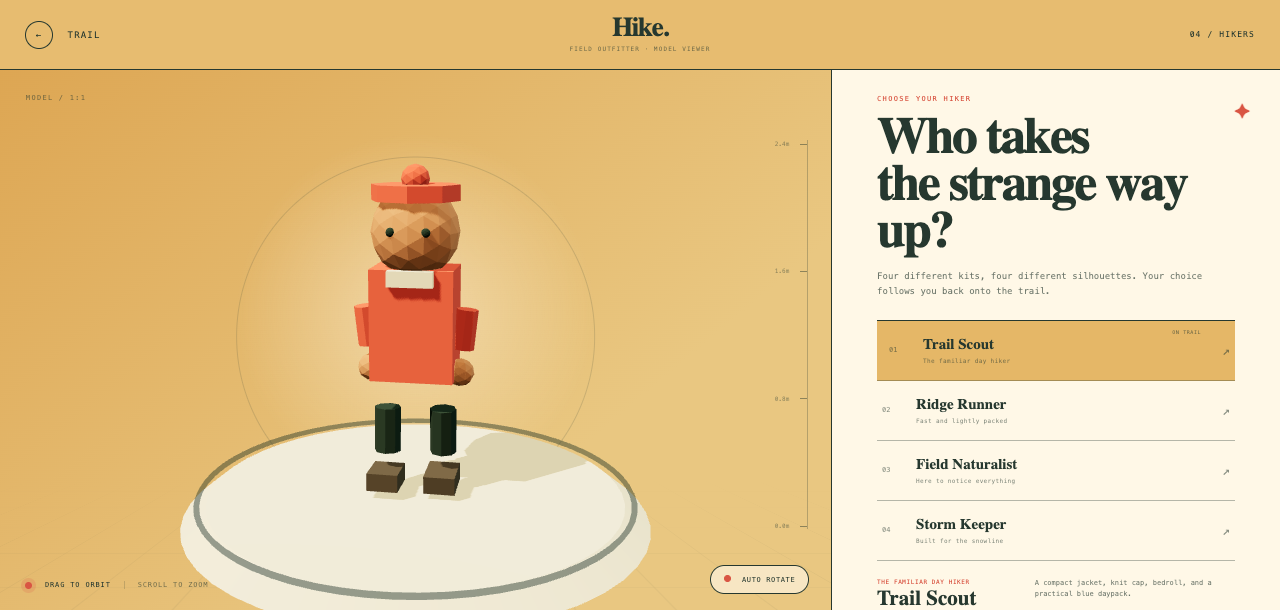
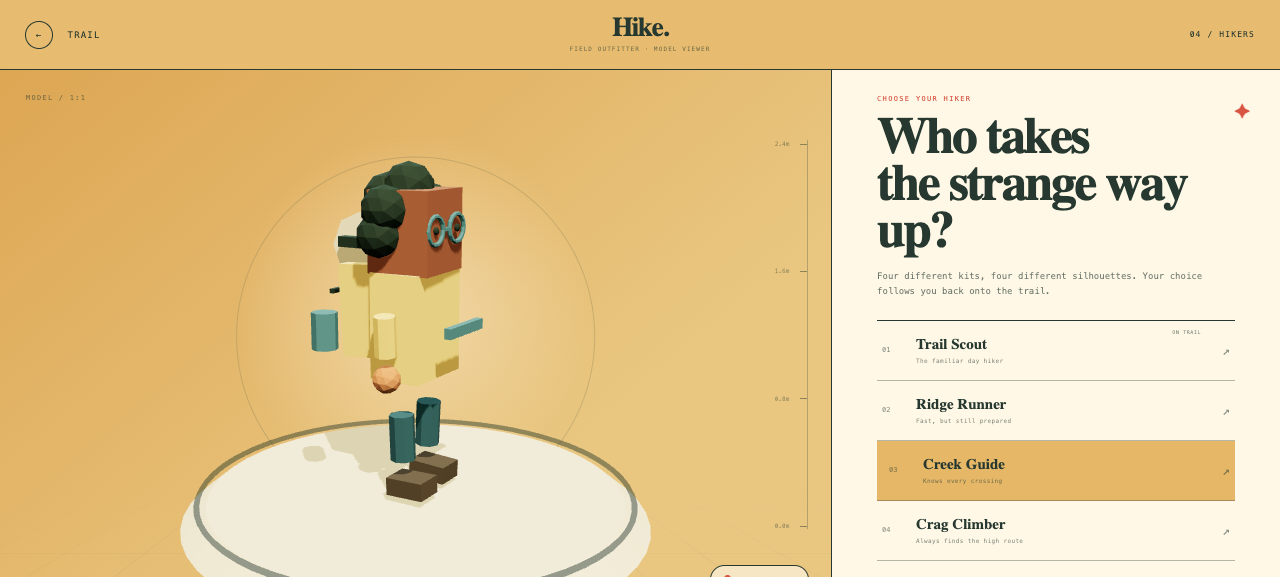
hike: redesign hikers with distinctive backpacks

diff --git a/hike/src/hikers.ts b/hike/src/hikers.ts
@@ -7,29 +7,29 @@ export const hikerAppearances = [
     id: "trail-scout",
     name: "Trail Scout",
     role: "The familiar day hiker",
-    description: "A compact jacket, knit cap, bedroll, and a practical blue daypack.",
-    features: ["Daypack", "Bedroll", "Beanie"],
+    description: "A compact jacket, knit cap, bedroll, and a square blue trail pack with its own mountain badge.",
+    features: ["Classic pack", "Bedroll", "Beanie"],
   },
   {
     id: "ridge-runner",
     name: "Ridge Runner",
-    role: "Fast and lightly packed",
-    description: "A lean trail runner with bare knees, a sun visor, hydration vest, and low shoes.",
-    features: ["Running vest", "Shorts", "Visor"],
+    role: "Fast, but still prepared",
+    description: "A lean trail runner with bare knees, a sun visor, low shoes, and a compact red classic pack.",
+    features: ["Classic pack", "Shorts", "Visor"],
   },
   {
-    id: "field-naturalist",
-    name: "Field Naturalist",
-    role: "Here to notice everything",
-    description: "A long field coat, broad hat, binoculars, and a specimen satchel change the silhouette completely.",
-    features: ["Field coat", "Binoculars", "Satchel"],
+    id: "creek-guide",
+    name: "Creek Guide",
+    role: "Knows every crossing",
+    description: "A rain-shell regular with a square face, round glasses, cloudlike curls, and a bottle-pocket roll-top pack.",
+    features: ["Roll-top pack", "Round glasses", "Rain shell"],
   },
   {
-    id: "storm-keeper",
-    name: "Storm Keeper",
-    role: "Built for the snowline",
-    description: "A broad hooded parka, goggles, snow gaiters, and an expedition pack for bad weather.",
-    features: ["Parka", "Goggles", "Expedition pack"],
+    id: "crag-climber",
+    name: "Crag Climber",
+    role: "Always finds the high route",
+    description: "An angular helmet, climbing harness, sturdy boots, and a rope-loaded summit pack built for exposed ground.",
+    features: ["Climbing pack", "Helmet", "Coiled rope"],
   },
 ] as const;
 
@@ -122,6 +122,36 @@ function pack(root: THREE.Group, y: number, material: THREE.Material, scale: [nu
   part(root, box, materials.ink, [0, y + scale[1] * 0.72, -0.42], [scale[0] * 0.84, 0.08, scale[2] * 1.04]);
 }
 
+function classicPack(root: THREE.Group, y: number, material: THREE.Material, scale = 1) {
+  const back = -0.55;
+  part(root, box, material, [0, y, -0.4], [0.5 * scale, 0.62 * scale, 0.25 * scale]);
+  part(root, box, material, [0, y + 0.2 * scale, back - 0.11 * scale], [0.43 * scale, 0.19 * scale, 0.035]);
+  part(root, box, materials.ink, [0, y - 0.02 * scale, back - 0.125 * scale], [0.4 * scale, 0.025, 0.025]);
+  const handle = new THREE.Mesh(new THREE.TorusGeometry(0.15 * scale, 0.025, 6, 12, Math.PI), materials.ink);
+  handle.position.set(0, y + 0.66 * scale, -0.43);
+  handle.rotation.z = Math.PI;
+  handle.castShadow = true;
+  root.add(handle);
+  part(root, cylinder, materials.cream, [0, y + 0.08 * scale, back - 0.165 * scale], [0.13 * scale, 0.026, 0.13 * scale], [Math.PI / 2, 0, 0]);
+  part(root, cone, materials.ink, [0, y + 0.09 * scale, back - 0.195 * scale], [0.075 * scale, 0.08 * scale, 0.022]);
+}
+
+function rollTopPack(root: THREE.Group) {
+  pack(root, 1.43, materials.gold, [0.53, 0.72, 0.28]);
+  part(root, cylinder, materials.cream, [0, 1.91, -0.41], [0.27, 0.27, 0.27], [0, 0, Math.PI / 2]);
+  part(root, cylinder, materials.blue, [-0.58, 1.33, -0.43], [0.1, 0.28, 0.1]);
+  part(root, box, materials.ink, [0, 1.54, -0.69], [0.32, 0.035, 0.035]);
+}
+
+function climbingPack(root: THREE.Group) {
+  pack(root, 1.46, materials.moss, [0.57, 0.78, 0.3]);
+  const rope = new THREE.Mesh(new THREE.TorusGeometry(0.3, 0.055, 7, 20), materials.gold);
+  rope.position.set(0, 1.4, -0.72);
+  rope.castShadow = true;
+  root.add(rope);
+  part(root, box, materials.red, [0, 1.88, -0.56], [0.32, 0.1, 0.12]);
+}
+
 function createBase() {
   const root = new THREE.Group();
   root.userData = { walkParts: [], baseScale: 1 } satisfies HikerData;
@@ -139,8 +169,8 @@ function trailScout() {
   head(root, 2.04, 0.34);
   part(root, cylinder, materials.red, [0, 2.33, 0], [0.34, 0.12, 0.34]);
   part(root, lowSphere, materials.red, [0, 2.43, 0], [0.11, 0.11, 0.11]);
-  pack(root, 1.38, materials.blue, [0.53, 0.66, 0.24]);
-  part(root, cylinder, materials.gold, [0, 1.07, -0.53], [0.34, 0.34, 0.34], [0, 0, Math.PI / 2]);
+  classicPack(root, 1.38, materials.blue, 1.04);
+  part(root, cylinder, materials.gold, [0, 1.08, -0.53], [0.16, 0.4, 0.16], [0, 0, Math.PI / 2]);
   return root;
 }
 
@@ -158,60 +188,64 @@ function ridgeRunner() {
   head(root, 2.0, 0.31);
   part(root, cylinder, materials.cream, [0, 2.25, 0], [0.33, 0.07, 0.33]);
   part(root, box, materials.cream, [0, 2.25, 0.3], [0.36, 0.04, 0.25], [-0.08, 0, 0]);
-  part(root, box, materials.red, [0, 1.5, -0.29], [0.38, 0.46, 0.12]);
+  classicPack(root, 1.43, materials.red, 0.86);
   return root;
 }
 
-function fieldNaturalist() {
+function creekGuide() {
   const root = createBase();
-  leg(root, -0.2, materials.trunk, 1, { width: 0.09, boot: materials.ink });
-  leg(root, 0.2, materials.trunk, -1, { width: 0.09, boot: materials.ink });
-  part(root, cone, materials.moss, [0, 1.34, 0], [0.68, 1.16, 0.58], [0, 0, Math.PI]);
-  part(root, box, materials.cream, [0, 1.54, 0.38], [0.11, 0.62, 0.05]);
-  part(root, box, materials.trunk, [0.35, 1.05, 0.32], [0.32, 0.35, 0.13], [0, 0, -0.08]);
-  part(root, box, materials.trunk, [0.13, 1.55, 0.25], [0.04, 0.78, 0.04], [0, 0, -0.35]);
-  arm(root, -0.48, materials.moss, -1, { length: 0.67 });
-  arm(root, 0.48, materials.moss, 1, { length: 0.67 });
-  head(root, 2.09, 0.33);
-  part(root, cylinder, materials.trunk, [0, 2.34, 0], [0.57, 0.055, 0.57]);
-  part(root, cylinder, materials.trunk, [0, 2.49, 0], [0.3, 0.17, 0.3]);
-  for (const x of [-0.13, 0.13]) {
-    part(root, cylinder, materials.darkBlue, [x, 1.82, 0.39], [0.12, 0.17, 0.12], [Math.PI / 2, 0, 0]);
+  leg(root, -0.21, materials.darkBlue, 1, { width: 0.1, boot: materials.trunk });
+  leg(root, 0.21, materials.darkBlue, -1, { width: 0.1, boot: materials.trunk });
+  part(root, box, materials.gold, [0, 1.34, 0], [0.62, 0.82, 0.42]);
+  part(root, box, materials.blue, [0, 1.34, 0.43], [0.48, 0.08, 0.055]);
+  arm(root, -0.43, materials.gold, -1, { length: 0.62 });
+  arm(root, 0.43, materials.gold, 1, { length: 0.62 });
+
+  // A broad square face and clustered curls give the guide a head unlike the round-headed hikers.
+  part(root, box, materials.skinDark, [0, 2.05, 0], [0.58, 0.62, 0.5], [0, 0.08, 0]);
+  for (const [x, y, z, size] of [
+    [-0.29, 2.22, -0.08, 0.18], [0, 2.36, -0.06, 0.2], [0.29, 2.22, -0.08, 0.18],
+    [-0.31, 2.03, -0.12, 0.17], [0.31, 2.03, -0.12, 0.17], [0, 2.28, -0.24, 0.2],
+  ] as const) part(root, lowSphere, materials.ink, [x, y, z], [size, size, size]);
+  for (const x of [-0.15, 0.15]) {
+    const lens = new THREE.Mesh(new THREE.TorusGeometry(0.105, 0.018, 6, 14), materials.blue);
+    lens.position.set(x, 2.07, 0.27);
+    lens.castShadow = true;
+    root.add(lens);
+    part(root, lowSphere, materials.ink, [x, 2.07, 0.275], [0.03, 0.03, 0.02]);
   }
-  part(root, box, materials.ink, [0, 1.83, 0.38], [0.1, 0.08, 0.08]);
-  part(root, cylinder, materials.ink, [0, 1.96, 0.16], [0.025, 0.26, 0.025]);
+  part(root, box, materials.blue, [0, 2.07, 0.27], [0.1, 0.025, 0.025]);
+  rollTopPack(root);
   return root;
 }
 
-function stormKeeper() {
+function cragClimber() {
   const root = createBase();
-  (root.userData as HikerData).baseScale = 0.98;
-  leg(root, -0.24, materials.slate, 1, { width: 0.13, boot: materials.ink, gaiter: true });
-  leg(root, 0.24, materials.slate, -1, { width: 0.13, boot: materials.ink, gaiter: true });
-  part(root, lowSphere, materials.darkBlue, [0, 1.43, 0], [0.73, 0.76, 0.5]);
-  part(root, box, materials.blue, [0, 1.27, 0.38], [0.5, 0.09, 0.08]);
-  part(root, box, materials.blue, [0, 1.55, 0.43], [0.53, 0.07, 0.08]);
-  arm(root, -0.55, materials.darkBlue, -1, { length: 0.68, width: 0.11, gloves: true });
-  arm(root, 0.55, materials.darkBlue, 1, { length: 0.68, width: 0.11, gloves: true });
-  pack(root, 1.48, materials.red, [0.65, 0.8, 0.32]);
-  part(root, cylinder, materials.cream, [0, 2.04, -0.07], [0.46, 0.17, 0.46]);
-  head(root, 2.09, 0.3);
-  const hood = new THREE.Mesh(new THREE.TorusGeometry(0.38, 0.1, 7, 14, Math.PI * 1.5), materials.darkBlue);
-  hood.position.set(0, 2.11, -0.04);
-  hood.rotation.z = Math.PI * 0.25;
-  hood.castShadow = true;
-  root.add(hood);
-  part(root, box, materials.gold, [0, 2.13, 0.3], [0.3, 0.09, 0.055]);
-  part(root, box, materials.ink, [0, 2.13, 0.34], [0.035, 0.1, 0.025]);
-  part(root, cylinder, materials.cream, [0, 0.84, -0.48], [0.4, 0.4, 0.4], [0, 0, Math.PI / 2]);
+  (root.userData as HikerData).baseScale = 1.01;
+  leg(root, -0.22, materials.slate, 1, { width: 0.12, boot: materials.ink, gaiter: true });
+  leg(root, 0.22, materials.slate, -1, { width: 0.12, boot: materials.ink, gaiter: true });
+  part(root, box, materials.cream, [0, 1.36, 0], [0.62, 0.82, 0.4]);
+  part(root, box, materials.red, [0, 1.08, 0.43], [0.54, 0.12, 0.07]);
+  for (const x of [-0.24, 0.24]) part(root, cylinder, materials.red, [x, 1.04, 0.39], [0.045, 0.2, 0.045], [0, 0, x > 0 ? -0.35 : 0.35]);
+  arm(root, -0.44, materials.cream, -1, { length: 0.65, width: 0.09, gloves: true });
+  arm(root, 0.44, materials.cream, 1, { length: 0.65, width: 0.09, gloves: true });
+
+  // The climber has an elongated, faceted face under a geometric hard shell.
+  part(root, lowSphere, materials.skinDark, [0, 2.06, 0], [0.29, 0.39, 0.3]);
+  part(root, lowSphere, materials.red, [0, 2.23, -0.015], [0.38, 0.29, 0.37]);
+  part(root, box, materials.red, [0, 2.2, 0.29], [0.38, 0.07, 0.19], [-0.08, 0, 0]);
+  for (const x of [-0.12, 0.12]) part(root, lowSphere, materials.ink, [x, 2.04, 0.28], [0.034, 0.034, 0.022]);
+  part(root, box, materials.ink, [-0.3, 1.98, 0.02], [0.025, 0.33, 0.025], [0, 0, -0.18]);
+  part(root, box, materials.ink, [0.3, 1.98, 0.02], [0.025, 0.33, 0.025], [0, 0, 0.18]);
+  climbingPack(root);
   return root;
 }
 
 const builders: Record<HikerId, () => THREE.Group> = {
   "trail-scout": trailScout,
   "ridge-runner": ridgeRunner,
-  "field-naturalist": fieldNaturalist,
-  "storm-keeper": stormKeeper,
+  "creek-guide": creekGuide,
+  "crag-climber": cragClimber,
 };
 
 export function isHikerId(value: string | null): value is HikerId {

diff --git a/hike/README.md b/hike/README.md
@@ -4,7 +4,7 @@ In this game you'll hike up a mountain. The hiking is simple: just move along th
 
 The trail is rendered as a procedural low-poly diorama in Three.js: real perspective, moving light, long tree shadows, ground fog, faceted terrain, and a camera that follows each switchback from the young woods to the snowline. No downloaded 3D models or textures are used.
 
-Open the **Hiker** model viewer from the top-right control to orbit and inspect four fully procedural character designs: the original Trail Scout (now hiking without a walking stick), Ridge Runner, Field Naturalist, and Storm Keeper. Choosing **Use this hiker** saves that distinct model for the trail. The viewer is also available directly at `/hike/character.html`.
+Open the **Hiker** model viewer from the top-right control to orbit and inspect four fully procedural character designs: Trail Scout, Ridge Runner, Creek Guide, and Crag Climber. Every hiker carries a modeled backpack; the Scout and Runner have classic square packs with a small mountain badge, while the Guide and Climber carry distinct roll-top and rope-loaded designs. Choosing **Use this hiker** saves that model for the trail. The viewer is also available directly at `/hike/character.html`.
 
 ## Play
 
